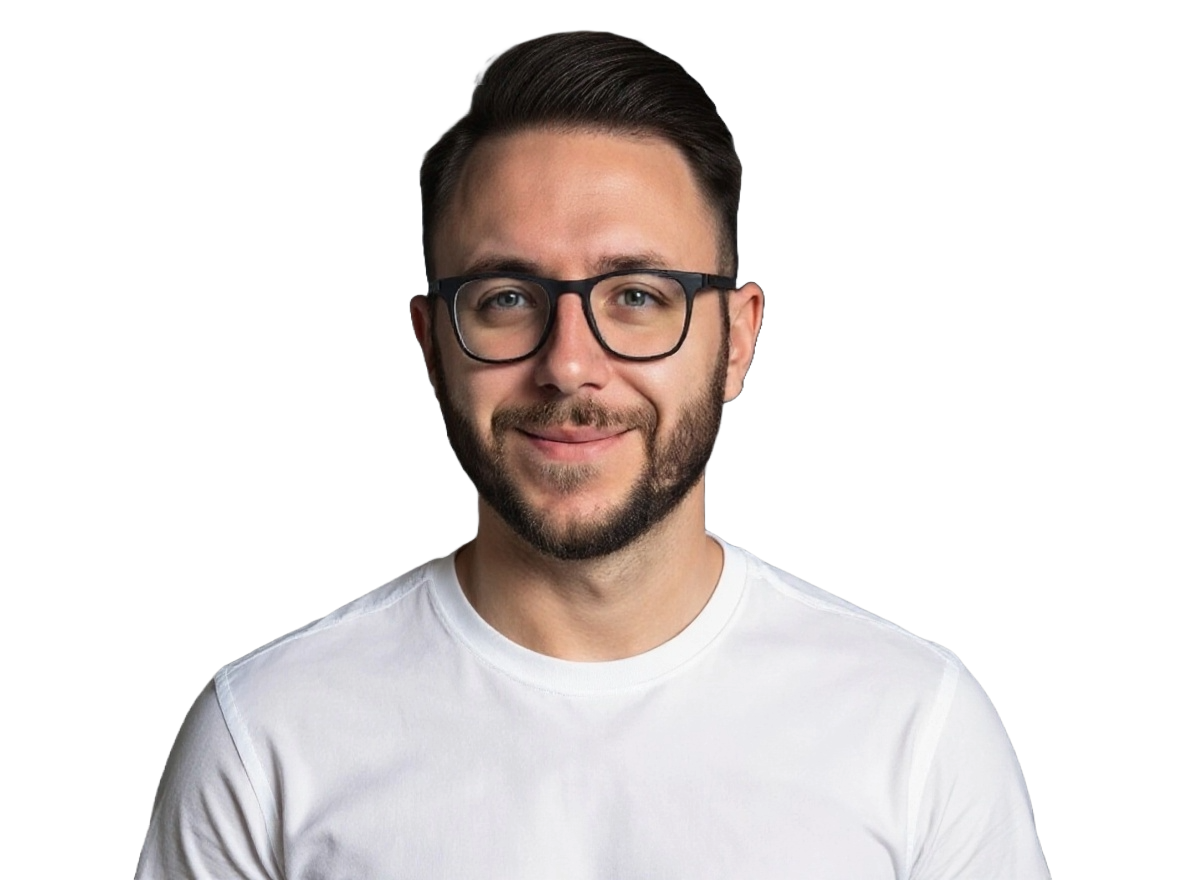
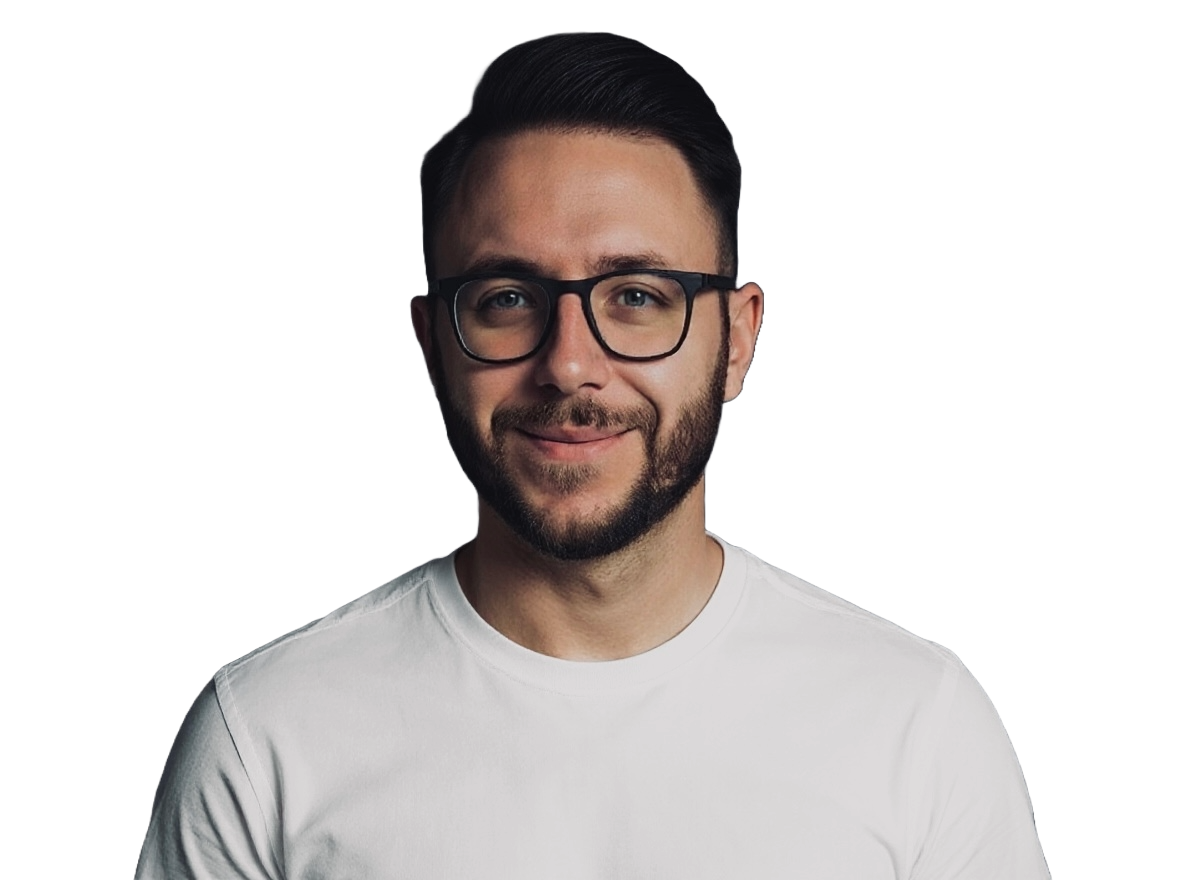
style: added background style with hover under img

diff --git a/src/app/main/about-me/about-me.scss b/src/app/main/about-me/about-me.scss
@@ -20,16 +20,46 @@
 
 .about-me__photo {
   position: relative;
-  overflow: hidden;
-  border-radius: 30px;
+  overflow: visible;
   width: min(100%, 568px);
   aspect-ratio: 1 / 1;
-  background: #0d1c1f;
-  box-shadow: 0 32px 64px rgba(0, 0, 0, 0.45);
   margin-top: clamp(-2rem, -4vw, -0.5rem);
 }
 
-.about-me__photo img {
+.about-me__photo::before {
+  content: '';
+  position: absolute;
+  bottom: -1.75rem;
+  left: -1.75rem;
+  width: 100%;
+  height: 100%;
+  background: url('/assets/img/capa_1.png') center / cover no-repeat;
+  border-radius: 28px;
+  opacity: 0;
+  transition: opacity 200ms ease;
+  z-index: -1;
+  pointer-events: none;
+}
+
+.about-me__photo:hover::before,
+.about-me__photo:focus-within::before {
+  opacity: 1;
+}
+
+.about-me__photo-frame {
+  position: relative;
+  display: block;
+  width: 100%;
+  height: 100%;
+  background: #0d1c1f;
+  border-radius: 30px;
+  box-shadow: 0 32px 64px rgba(0, 0, 0, 0.45);
+  overflow: hidden;
+  isolation: isolate;
+}
+
+.about-me__photo-frame img {
+  position: relative;
   width: 100%;
   height: 100%;
   object-fit: cover;

diff --git a/src/app/main/about-me/about-me.html b/src/app/main/about-me/about-me.html
@@ -1,7 +1,10 @@
 <section class="about-me" id="about">
     <div class="about-me__container">
         <figure class="about-me__photo" aria-labelledby="about-me-heading">
-            <img src="assets/img/daniel_img.jpg" alt="Portrait of Daniel Luzius working on a laptop" loading="lazy" />
+            <div class="about-me__photo-frame">
+                <img src="assets/img/daniel_transparent_img.png" alt="Portrait of Daniel Luzius working on a laptop"
+                    loading="lazy" />
+            </div>
         </figure>
 
         <article class="about-me__panel" aria-labelledby="about-me-heading">
